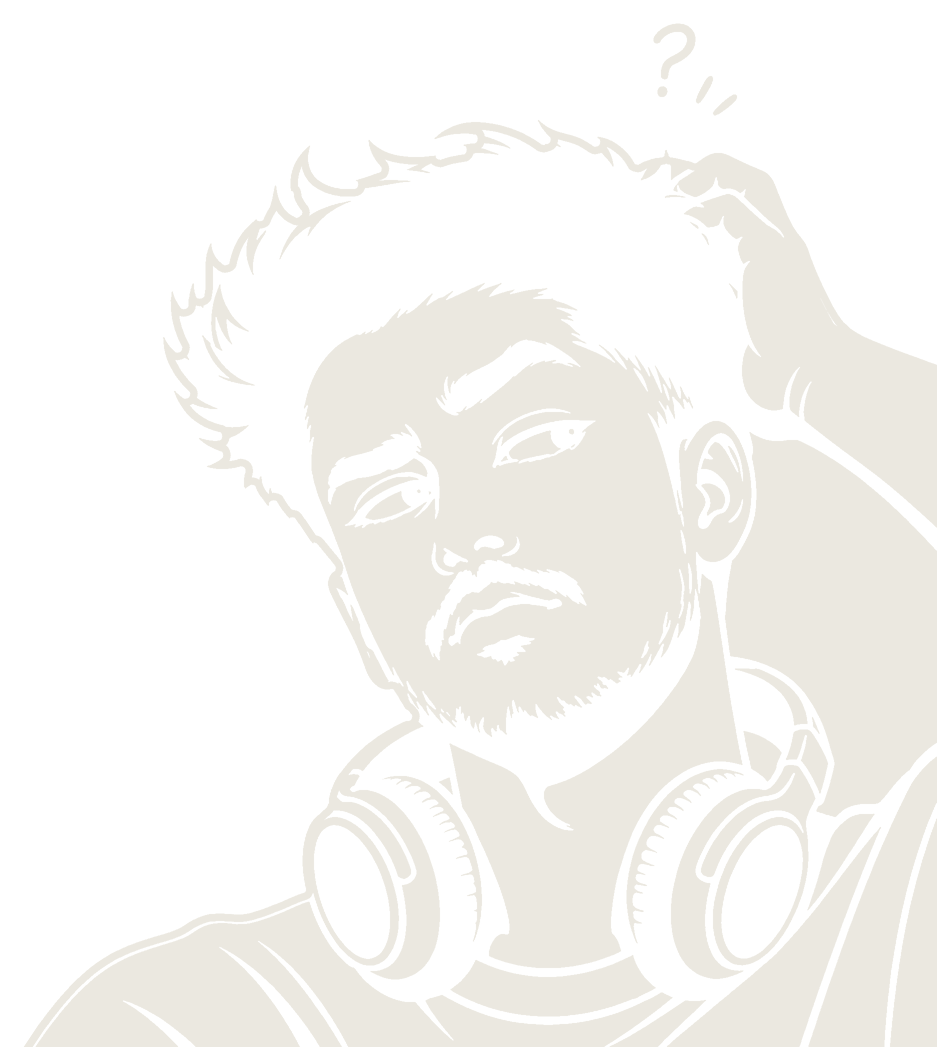
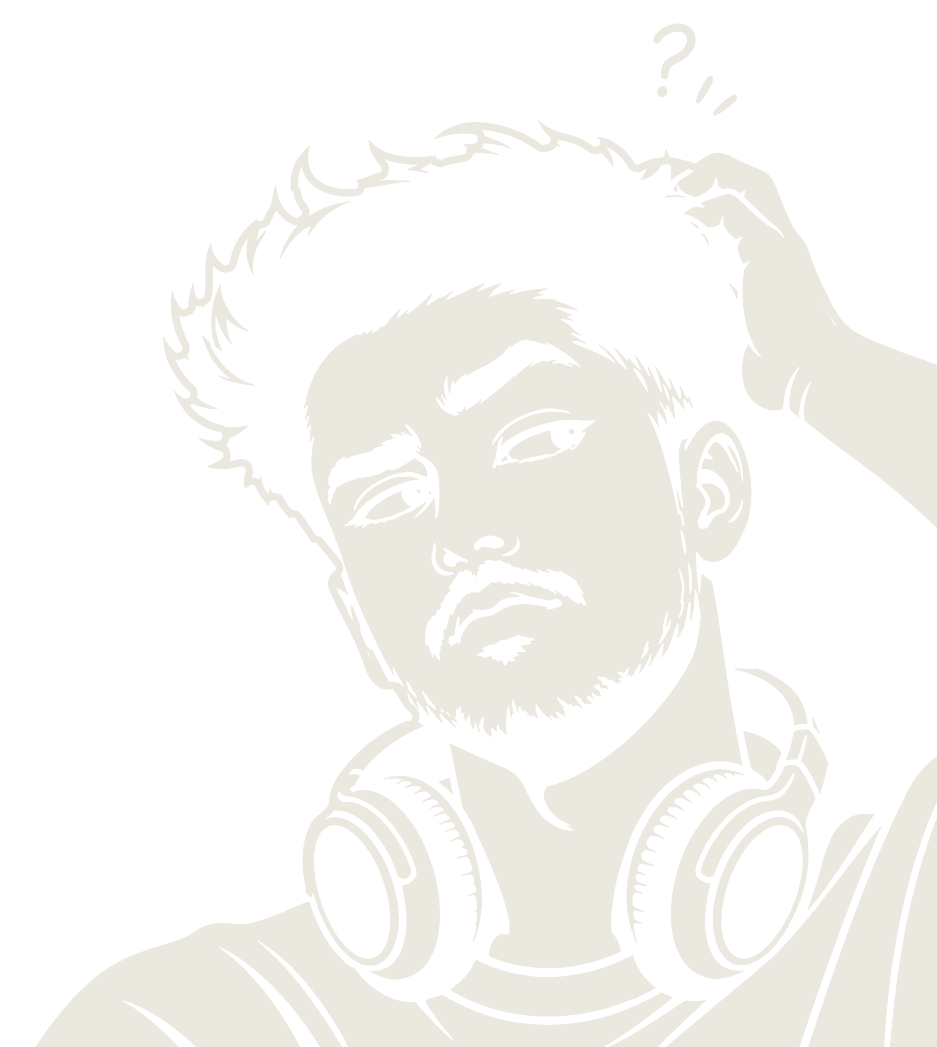
Add entrance animations and a now-playing skeleton
Text rises in with a short stagger and the portraits ink in from the
bottom, all disabled under prefers-reduced-motion. The now-playing
line shows a pulsing placeholder until the first API response.

Also clean up the dark 404 portrait: the gap under the raised arm is
transparent and the stray outline along the shoulder is gone.

Changed region(s): [[0.7737, 0.3973, 1.0, 0.7947], [0.1238, 0.8558, 0.3404, 0.9169], [0.0309, 0.9169, 0.1238, 1.0]]

diff --git a/templates/hire.html b/templates/hire.html
@@ -15,14 +15,14 @@
 
 <div class="read">
 <main class="hire">
-  <section class="hire-intro">
+  <section class="hire-intro stagger">
     <h1 class="display">taking new work from {{ x.available_from }}. {{ slots }} open.</h1>
     <p class="lede">{{ x.intro }}</p>
     <p class="lede">{{ x.based }} {% if x.booking_url %}<a href="{{ x.booking_url }}">book a free <span class="nowrap">15-minute</span> call</a> or write{% else %}write{% endif %} to <a href="mailto:{{ email }}">{{ email }}</a>. i reply within a day.</p>
     <p class="mono">updated <time datetime="{{ page.updated }}">{{ page.updated | date(format="%Y-%m-%d") }}</time></p>
   </section>
 
-  <section>
+  <section class="rise">
     <h2 class="h2">what i build</h2>
     <div class="hire-cols">
       {% for item in x.scope %}
@@ -35,7 +35,7 @@
     <p class="hire-stack mono">{{ x.stack }}</p>
   </section>
 
-  <section>
+  <section class="rise">
     <h2 class="h2">what i&rsquo;ve shipped</h2>
     {% set w = x.work %}
     <div class="hire-work">
@@ -52,7 +52,7 @@
     </div>
   </section>
 
-  <section>
+  <section class="rise">
     <h2 class="h2">pricing</h2>
     <div class="hire-prices">
       {% for plan in x.pricing.plans %}
@@ -66,7 +66,7 @@
     <p class="hire-note">{{ x.pricing.note }}</p>
   </section>
 
-  <section>
+  <section class="rise">
     <h2 class="h2">how it goes</h2>
     <ol class="hire-steps">
       {% for st in x.method.steps %}
@@ -75,7 +75,7 @@
     </ol>
   </section>
 
-  <section class="hire-fit">
+  <section class="hire-fit rise">
     <div>
       <h2 class="h2">a good fit</h2>
       <p>{{ x.fit.good }}</p>
@@ -89,7 +89,7 @@
   </section>
 
   {% if x.faqs %}
-  <section>
+  <section class="rise">
     <h2 class="h2">questions</h2>
     <div class="hire-faq">
       {% for f in x.faqs %}
@@ -102,14 +102,14 @@
   </section>
   {% endif %}
 
-  <section class="hire-contact">
+  <section class="hire-contact rise">
     <p>say hi:</p>
     <a class="hire-email" href="mailto:{{ email }}">{{ email }}</a>
     <p class="hire-or">or {% if x.booking_url %}<a href="{{ x.booking_url }}">grab 15 minutes on my calendar</a>, or {% endif %}look around my <a href="{{ github.url }}">github</a> first.</p>
   </section>
 </main>
 
-<aside class="rail rail--hire" aria-label="get in touch">
+<aside class="rail rail--hire rise" aria-label="get in touch">
   <span class="mono">right now</span>
   <strong>{{ slots }} open from {{ x.available_from }}.</strong>
   {% if x.booking_url %}<a href="{{ x.booking_url }}">book a free 15-minute call</a>{% endif %}

diff --git a/sass/style.scss b/sass/style.scss
@@ -124,6 +124,33 @@ h1, h2, h3, p { margin: 0; }
   letter-spacing: -0.01em;
 }
 
+/* ---- entrances: text rises in, staggered; the portrait inks in from the bottom ---- */
+
+@keyframes rise {
+  from { opacity: 0; transform: translateY(14px); }
+  to { opacity: 1; transform: none; }
+}
+@keyframes ink {
+  from { clip-path: inset(100% 0 0 0); }
+  to { clip-path: inset(0 0 0 0); }
+}
+// the headline stays put; everything after it follows in order
+.rise,
+.stagger > :not(h1) { animation: rise 0.45s cubic-bezier(0, 0, 0.2, 1) both; }
+.stagger > :nth-child(2) { animation-delay: 0.05s; }
+.stagger > :nth-child(3) { animation-delay: 0.1s; }
+.stagger > :nth-child(4) { animation-delay: 0.15s; }
+.stagger > :nth-child(5) { animation-delay: 0.2s; }
+.stagger > :nth-child(n + 6) { animation-delay: 0.25s; }
+.rise { animation-delay: 0.2s; }
+.page > .rise { animation-delay: 0.1s; }
+.ink { animation: ink 0.6s cubic-bezier(0, 0, 0.2, 1) both; }
+@media (prefers-reduced-motion: reduce) {
+  .rise,
+  .stagger > :not(h1),
+  .ink { animation: none; }
+}
+
 /* ---- chrome ---- */
 
 .site-header {
@@ -249,6 +276,23 @@ h1, h2, h3, p { margin: 0; }
 }
 
 .now-playing a { overflow-wrap: anywhere; }
+.now-playing-skeleton {
+  display: inline-block;
+  width: min(18em, 100%);
+  height: 0.7em;
+  background: var(--ink);
+  border-radius: 3px;
+  vertical-align: baseline;
+  opacity: 0.2;
+  animation: skeleton-pulse 1.3s ease-in-out infinite;
+}
+@keyframes skeleton-pulse {
+  0%, 100% { opacity: 0.12; }
+  50% { opacity: 0.3; }
+}
+@media (prefers-reduced-motion: reduce) {
+  .now-playing-skeleton { animation: none; }
+}
 .eq {
   display: inline-flex;
   align-items: flex-end;

diff --git a/templates/blog-page.html b/templates/blog-page.html
@@ -8,7 +8,7 @@
 {% block content %}
 <div class="read">
   <main class="post">
-    <article>
+    <article class="stagger">
       <p class="post-meta mono">
         <time datetime="{{ page.date }}">{{ page.date | date(format="%b %d, %Y") | lower }}</time> &middot; {{ page.reading_time }} min read
         {%- for tag in page.taxonomies.tags | default(value=[]) %}{% if loop.first %} &middot; {% else %}, {% endif %}<a href="{{ get_taxonomy_url(kind="tags", name=tag) }}">{{ tag }}</a>{% endfor %}
@@ -19,7 +19,7 @@
       </div>
     </article>
 
-    <div class="post-end">
+    <div class="post-end rise">
       <p>disagree? good. tell me at <a href="mailto:{{ config.extra.email }}">{{ config.extra.email }}</a>.</p>
       <nav class="post-nav" aria-label="more posts">
         <a href="{{ get_url(path="blog") }}">&larr; all {{ config.extra.ui.writing_label }}</a>
@@ -28,7 +28,7 @@
     </div>
   </main>
 
-  <aside class="rail" aria-label="in this post">
+  <aside class="rail rise" aria-label="in this post">
     {% if page.toc %}
     <span class="mono">in this post</span>
     {% for h in page.toc %}

diff --git a/templates/index.html b/templates/index.html
@@ -4,7 +4,7 @@
 
 {% block content %}
 <div class="home">
-<main class="home-main">
+<main class="home-main stagger">
   <h1 class="display">{{ config.extra.headline }}</h1>
   <p>{{ config.extra.bio | join(sep=" ") }}</p>
 
@@ -16,7 +16,7 @@
   {% endif %}
   {% endif %}
 
-  {# filled in by spotify.js; stays hidden when the api has nothing #}
+  {# spotify.js shows a skeleton here, then the track; hidden again when the api has nothing #}
   <p class="now-playing" id="now-playing" hidden></p>
 
   <p>i&rsquo;m on
@@ -25,7 +25,7 @@
   <p class="status mono">{% include "status-line.html" %}</p>
 </main>
 
-<div class="home-avatar" role="img" aria-label="{{ config.extra.avatar_alt }}"></div>
+<div class="home-avatar ink" role="img" aria-label="{{ config.extra.avatar_alt }}"></div>
 </div>
 {% endblock content %}
 

diff --git a/templates/404.html b/templates/404.html
@@ -7,13 +7,13 @@
 
 {% block content %}
 <div class="home home--404">
-<main class="home-main">
+<main class="home-main stagger">
   <p class="mono">404</p>
   <h1 class="display">{{ config.extra.ui.not_found }}</h1>
   <p>either the link is wrong or i moved something and forgot. try the <a href="{{ get_url(path="/") }}">home page</a>{% if config.extra.blog_enabled %} or <a href="{{ get_url(path="blog") }}">the {{ config.extra.ui.writing_label }}</a>{% endif %}, or tell me at <a href="mailto:{{ config.extra.email }}">{{ config.extra.email }}</a> and i&rsquo;ll fix it.</p>
 </main>
 
-<div class="home-avatar" aria-hidden="true"></div>
+<div class="home-avatar ink" aria-hidden="true"></div>
 </div>
 {% endblock content %}
 

diff --git a/static/spotify.js b/static/spotify.js
@@ -13,6 +13,14 @@
     return wrap;
   }
 
+  // holds the line's place until the first response lands
+  function skeleton() {
+    var bar = document.createElement("span");
+    bar.className = "now-playing-skeleton";
+    bar.setAttribute("aria-hidden", "true");
+    return bar;
+  }
+
   function text(s) {
     return document.createTextNode(s);
   }
@@ -75,6 +83,9 @@
       .then(render)
       .catch(function () { render(null); });
   }
+
+  line.appendChild(skeleton());
+  line.hidden = false;
 
   refresh();
   setInterval(refresh, POLL_MS);

diff --git a/templates/tags/list.html b/templates/tags/list.html
@@ -7,11 +7,11 @@
 
 {% block content %}
 <main class="page">
-  <div class="page-head">
+  <div class="page-head stagger">
     <h1 class="display">{{ config.extra.ui.tags_label }}</h1>
     <p>the same <a href="{{ get_url(path="blog") }}">{{ config.extra.ui.writing_label }}</a>, sorted by what it&rsquo;s about.</p>
   </div>
-  <div class="post-list">
+  <div class="post-list rise">
     {% for term in terms %}
     <a class="post-row" href="{{ term.permalink }}">
       <span class="post-row-title">{{ term.name }}</span>

diff --git a/templates/tags/single.html b/templates/tags/single.html
@@ -8,7 +8,7 @@
 
 {% block content %}
 <main class="page">
-  <div class="page-head">
+  <div class="page-head stagger">
     <h1 class="display">{{ term.name }}</h1>
     <p>everything tagged {{ term.name }}. see <a href="{{ get_url(path="tags") }}">all {{ config.extra.ui.tags_label }}</a> or <a href="{{ get_url(path="blog") }}">{{ config.extra.ui.all_posts }}</a>.</p>
   </div>

diff --git a/templates/section.html b/templates/section.html
@@ -10,7 +10,7 @@
 
 {% block content %}
 <main class="page">
-  <div class="page-head">
+  <div class="page-head stagger">
     <h1 class="display">{{ config.extra.ui.writing_label }}</h1>
     <p>everything i&rsquo;ve written, newest first. there&rsquo;s an <a href="{{ get_url(path="atom.xml") }}">rss feed</a> if that&rsquo;s your thing.</p>
   </div>

diff --git a/templates/macros.html b/templates/macros.html
@@ -4,7 +4,7 @@
 {% for page in pages %}
 {% if page.year != prev_year %}
 {% if not loop.first %}</div></section>{% endif %}
-<section class="year">
+<section class="year rise">
   <h2>{{ page.year }}</h2>
   <div class="post-list">
 {% set_global prev_year = page.year %}
